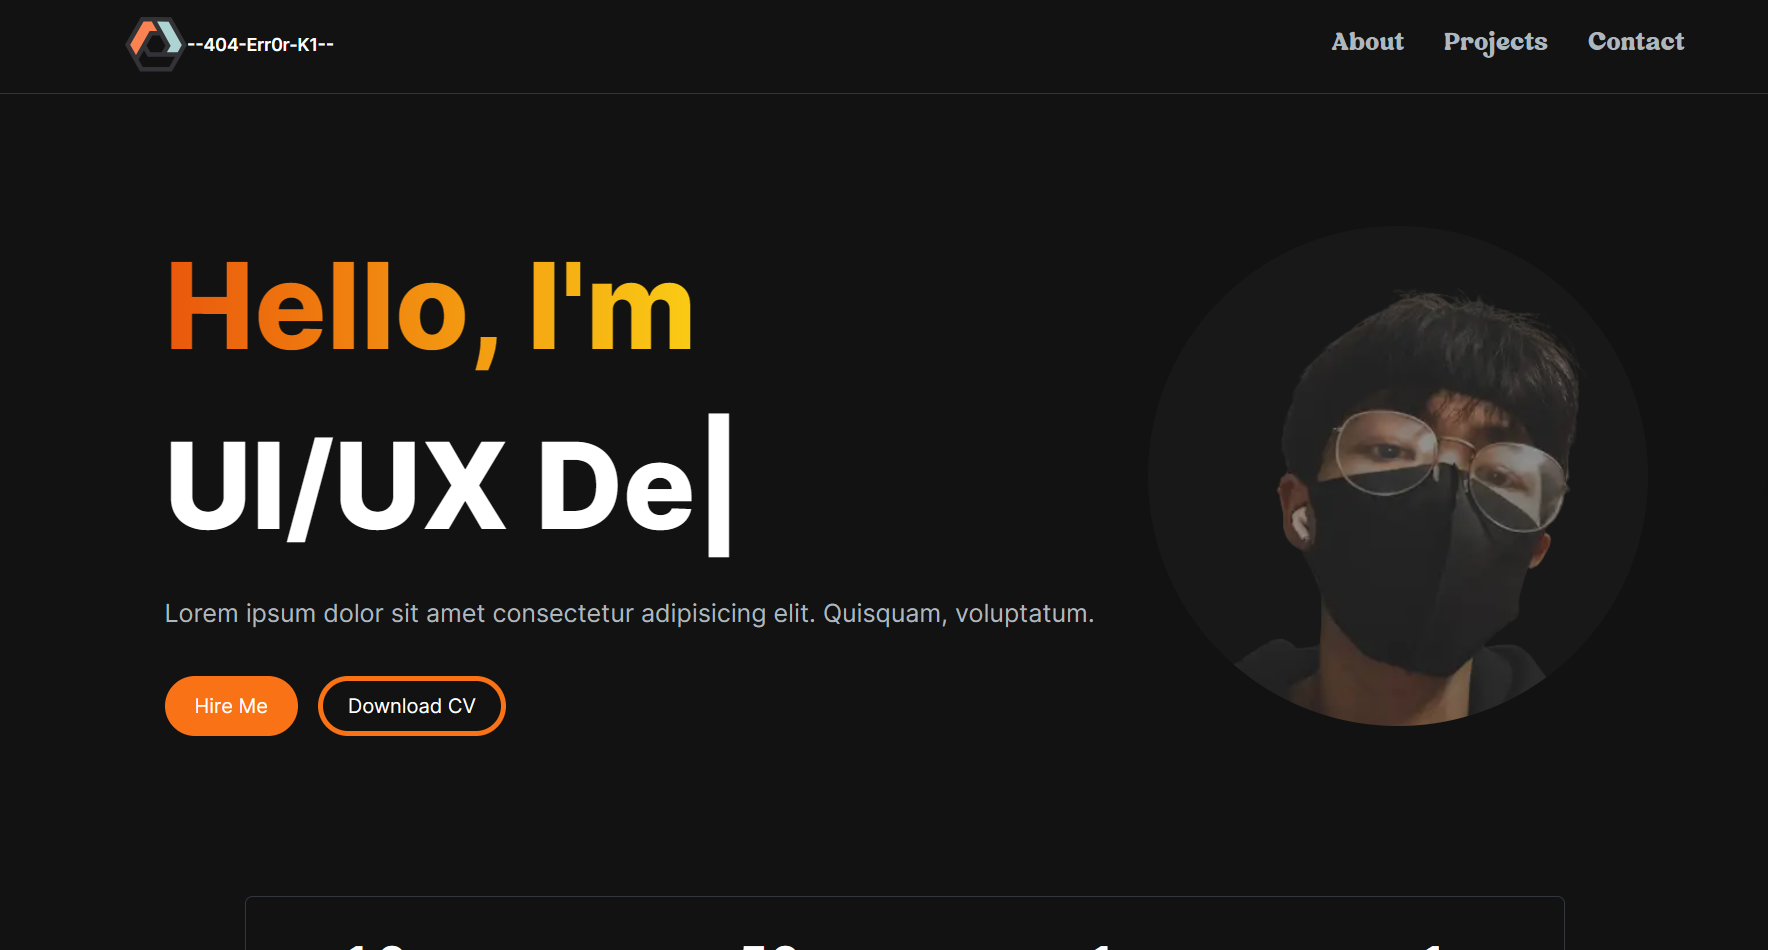
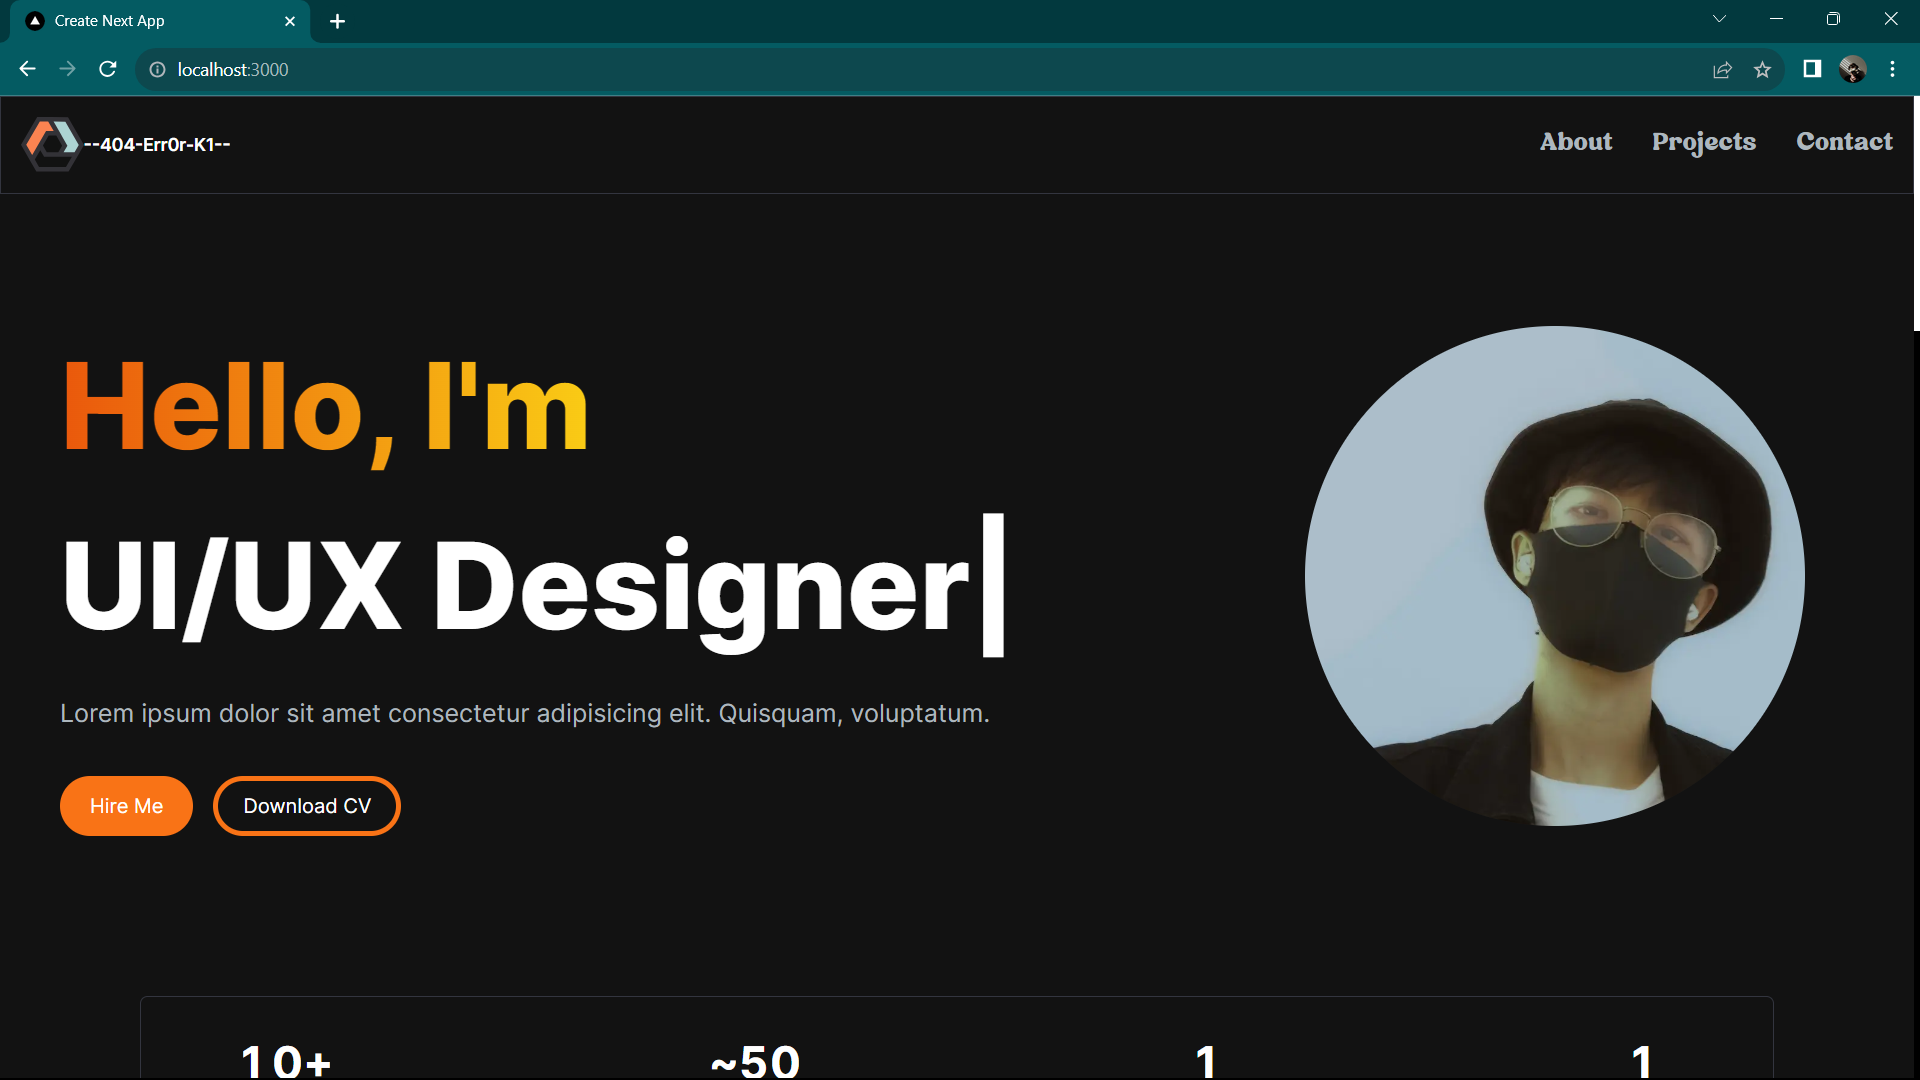
update 3/12

diff --git a/src/app/components/ProjectsSection.jsx b/src/app/components/ProjectsSection.jsx
@@ -18,7 +18,7 @@ const projectsData = [
     id: 2,
     title: "Food Tp Website",
     description: "NextJS, Nodejs, MongoDB, framework sp,...",
-    image: "/images/projects/project-food-tp.png",
+    image: "/images/projects/foodtp.png",
     tag: ["All", "Web"],
     gitUrl: "https://github.com/404Err0rK1/Food-Tp.git",
     previewUrl: "/",
@@ -27,7 +27,7 @@ const projectsData = [
     id: 3,
     title: "E-commerce Application",
     description: "Project 3 description",
-    image: "/images/projects/3.png",
+    image: "/images/projects/other.png",
     tag: ["All", "Web"],
     gitUrl: "/",
     previewUrl: "/",
@@ -36,7 +36,7 @@ const projectsData = [
     id: 4,
     title: "Food Ordering Application",
     description: "Project 4 description",
-    image: "/images/projects/4.png",
+    image: "/images/projects/other.png",
     tag: ["All", "Mobile"],
     gitUrl: "/",
     previewUrl: "/",
@@ -45,7 +45,7 @@ const projectsData = [
     id: 5,
     title: "React Firebase Template",
     description: "Authentication and CRUD operations",
-    image: "/images/projects/5.png",
+    image: "/images/projects/other.png",
     tag: ["All", "Web"],
     gitUrl: "/",
     previewUrl: "/",
@@ -54,7 +54,7 @@ const projectsData = [
     id: 6,
     title: "Full-stack Roadmap",
     description: "Project 5 description",
-    image: "/images/projects/6.png",
+    image: "/images/projects/other.png",
     tag: ["All", "Web"],
     gitUrl: "/",
     previewUrl: "/",

diff --git a/src/app/components/AboutSection.jsx b/src/app/components/AboutSection.jsx
@@ -53,12 +53,12 @@ const AboutSection = () => {
     <section className="text-white" id="about">
       <div className="md:grid md:grid-cols-2 gap-8 items-center py-8 px-4 xl:gap-16 sm:py-16 xl:px-16">
         <Image
-          src="/images/projects/desktop computer-bro.svg"
+          src="/images/projects/Startup-life-amico.svg"
           width={500}
           height={500}
           alt="bg"
           style={{
-            transform:'rotateY(180deg)'
+            // transform:'rotateY(180deg)'
           }}
 
         />

diff --git a/src/app/components/HeroSection.jsx b/src/app/components/HeroSection.jsx
@@ -63,7 +63,7 @@ const HeroSection = () => {
         >
           <div className="rounded-full bg-[#181818] w-[250px] h-[250px] lg:w-[400px] lg:h-[400px] relative overflow-hidden">
             <Image
-              src="/images/avatar-2.png"
+              src="/images/avatar-3.jpg"
               alt="hero image"
               className="absolute transform -translate-x-1/2 -translate-y-1/2 top-1/2 left-1/2 "
               width={800}
